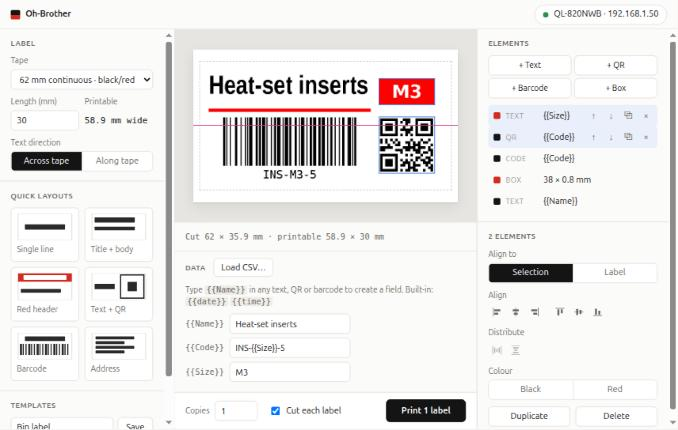
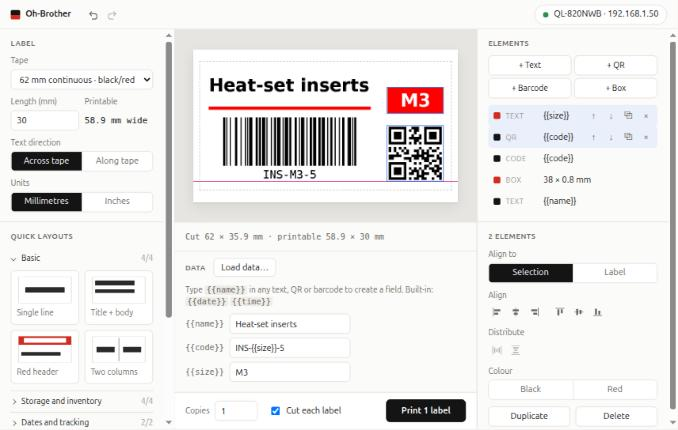
Oh-Brother 0.3.0: data from spreadsheets, and tidier fields
The 0.3 milestone gathers the work since 0.2.2: data loaded from OpenDocument and Excel spreadsheets and JSON as well as CSV, field names that ignore case, and empty fields hidden in the preview and in print with the lines and spaces around them tidied. The version, README status line and changelog move to 0.3.0, the roadmap gains a released 0.3 section, and the README speaks of data columns rather than CSV columns. Both README screenshots are retaken from a demo instance with the placeholder printer address, so they show the Load data button, the units switch, the quick-layout categories and lowercase field names.

diff --git a/app/main.py b/app/main.py
@@ -14,7 +14,7 @@ import threading
 import time
 import webbrowser
 
-VERSION = "0.2.2"
+VERSION = "0.3.0"
 
 APP_DIR = os.path.dirname(os.path.abspath(__file__))
 ROOT = os.path.dirname(APP_DIR)

diff --git a/README.md b/README.md
@@ -2,7 +2,7 @@
 
 Label printing for a network Brother QL-820NWB, in black or in black and red. It's a local web app that runs from its own folder, with nothing installed on the host, so it can live on a thumbdrive.
 
-> **Status: pre-release.** Version 0.2.2 is the current build. Anything may change. See the [roadmap](ROADMAP.md) and [changelog](CHANGELOG.md).
+> **Status: pre-release.** Version 0.3.0 is the current build. Anything may change. See the [roadmap](ROADMAP.md) and [changelog](CHANGELOG.md).
 
 ![The Oh-Brother editor: a red and black bin label previewed from row 3 of a parts CSV, with the field mapping and rows below it and the selected element's properties on the right](docs/images/editor-csv.png)
 
@@ -54,8 +54,8 @@ The app stops by itself about 10 seconds after you close its last window or tab,
   - Align them to each other (Selection) or to the printable area (Label).
   - Distribute three or more with equal gaps. The outermost two stay put.
   - Colour, Duplicate and Delete apply to all of them.
-- **Fields:** `{{name}}` in any text, QR code or barcode becomes a field. Names ignore case, so `{{Code}}` and `{{code}}` are the same field. Fill it with fixed text or a CSV column. Built-in fields: `{{date}}`, `{{time}}` and `{{datetime}}`.
-  - Fixed text can include other fields: set `{{code}}` to `{{item}}` or `P-{{item}}-{{date}}`. It can also name any CSV column, even one the label doesn't use. A field named only here gets its own row.
+- **Fields:** `{{name}}` in any text, QR code or barcode becomes a field. Names ignore case, so `{{Code}}` and `{{code}}` are the same field. Fill it with fixed text or a column from a data file. Built-in fields: `{{date}}`, `{{time}}` and `{{datetime}}`.
+  - Fixed text can include other fields: set `{{code}}` to `{{item}}` or `P-{{item}}-{{date}}`. It can also name any data column, even one the label doesn't use. A field named only here gets its own row.
   - Values from data cells are printed exactly as written, `{{…}}` included.
   - Empty fields print as nothing, in the preview too. In text, the spaces beside an empty field go with it, and a line left blank by empty fields is removed, so the lines below move up. If every field in a text element is empty, the whole element is hidden, fixed text included: `SKU {{code}}` with no code prints nothing. The editor marks it with a hatched placeholder. Punctuation you type between fields stays, so `{{city}}, {{postcode}}` with no postcode prints `Paris,`.
   - Fields that refer to each other in a loop are left blank on the label, and a warning names them.
@@ -65,7 +65,7 @@ The app stops by itself about 10 seconds after you close its last window or tab,
   - **JSON**: a list of objects (keys become columns) or a list of lists.
 - **Templates** save the layout, fixed values and column mapping. A sample CSV in `data/samples/` matches the *Bin label* template.
 
-![Two elements dragged together, with a snap guide across the label, the align and distribute panel on the right, and a chained field, INS-{{Size}}-5, printing as INS-M3-5](docs/images/multi-select.png)
+![Two elements dragged together, with a snap guide across the label, the align and distribute panel on the right, and a chained field, INS-{{size}}-5, printing as INS-M3-5](docs/images/multi-select.png)
 
 The preview is exactly what prints. Over the network the printer doesn't report back, so "Sent" means the job reached it.
 

diff --git a/ROADMAP.md b/ROADMAP.md
@@ -21,6 +21,12 @@ Oh-Brother grows one milestone at a time. Each milestone is a minor version (0.2
 - [x] Metric or imperial units (shipped in 0.2.1)
 - [x] Placeholders for empty QR codes and barcodes, and the app stops when its window closes (shipped in 0.2.2)
 
+## 0.3 · Data and fields · released
+
+- [x] Data from OpenDocument and Excel spreadsheets and JSON, as well as CSV and TSV
+- [x] Field names that ignore case
+- [x] Empty fields hidden in the preview and in print, with the lines and spaces around them tidied
+
 ## Under consideration
 
 Not scheduled yet.

diff --git a/CHANGELOG.md b/CHANGELOG.md
@@ -2,7 +2,9 @@
 
 All notable changes, by version. Versions follow the [roadmap](ROADMAP.md): a minor version per milestone, and until 1.0 patch versions for the builds between them.
 
-## Unreleased
+## 0.3.0 · 2026-10-30
+
+Data from spreadsheets, and fields that tidy up after themselves.
 
 ### Added
 
